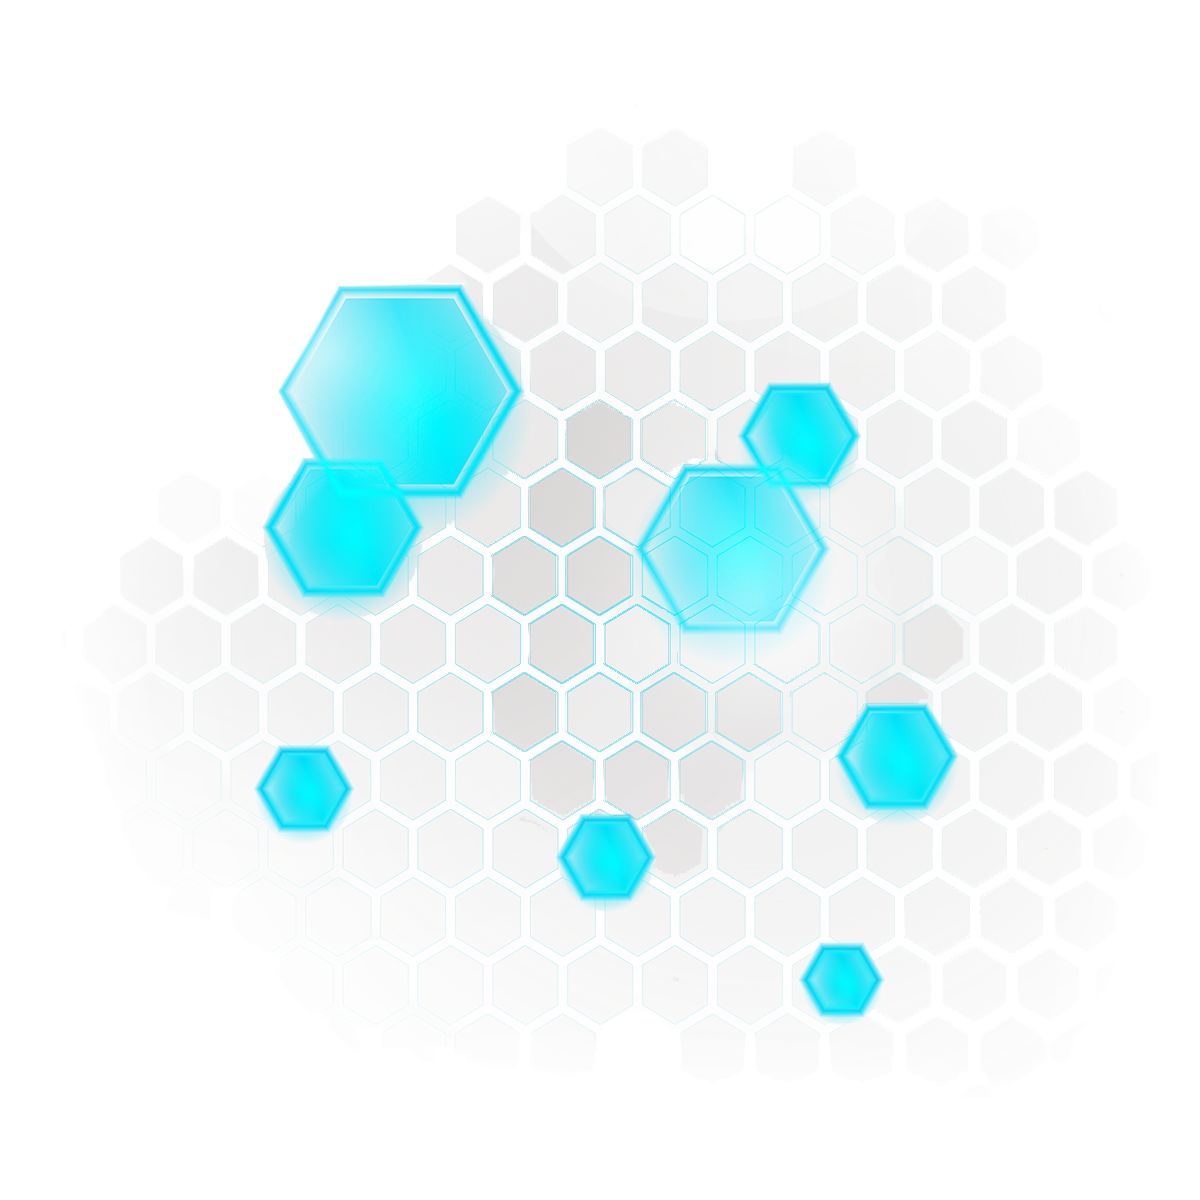
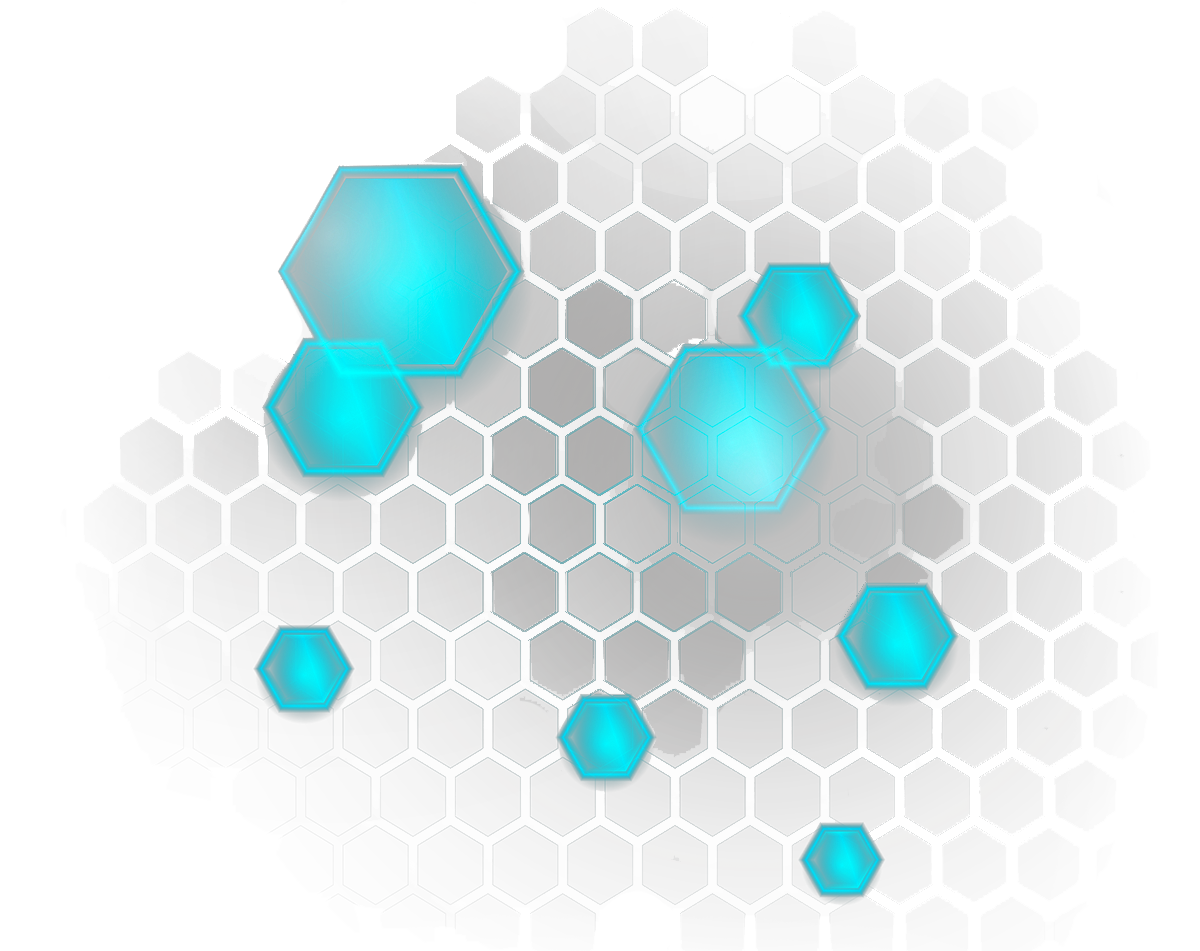
chnge views

Changed region(s): [[0.1542, 0.0915, 0.8942, 0.9758], [0.8633, 0.4269, 0.8942, 0.4574]]

diff --git a/home.css b/home.css
@@ -82,12 +82,15 @@
   
   .page1{
     min-height: 100vh;
-    background-color: rgb(6, 12, 24);
+    background-image: linear-gradient(#261d5c, #080318);
   }
-  .heading {
+  .page1 .heading {
+    align-items: center;
+    margin: 10% 0% 0% 15%;
     text-align: left;
-    margin: 15% 10%;
-    display: inline-block;
+    display: inline-flex;
+    justify-content: space-between;
+    max-width: max-content;
   }
   
   .text-title {
@@ -109,25 +112,22 @@
     background-clip: text;
     -webkit-background-clip: text;
     -webkit-text-fill-color: transparent;
-    text-align: center;
     font-size: 55px;
     font-weight: 600;
     font-family: 'Segoe UI', Tahoma, Geneva, Verdana, sans-serif;
   }
   
   .animateGIF {
-    width: 450px;
-    position: absolute;
-    top: 25%;
-    left: 60%
+    width: 500px;
   }
   .glowanime {
     -webkit-filter: drop-shadow(12px 12px 7px rgba(50, 163, 255, 0.5));
     filter: drop-shadow(12px 12px 7px rgba(5, 184, 255, 0.5));
   }
-  
+ 
+
   .pltfrmbtn {  
-    margin:-5% 15%;
+    margin:0% 15%;
     padding-left: 16px;
     padding-right: 16px; 
     border: none;
@@ -178,7 +178,7 @@
   }
   
   .container1 {
-    background-color: rgb(41, 35, 97);
+    background-image: linear-gradient(#2c4e8d, #0e0920);
     min-height: 100vh;
     width: 100%;
   }
@@ -195,14 +195,14 @@
   }
   
   .container2 {
-    background-color: rgb(51, 46, 122);
+    background-image: linear-gradient(#2c4e8d, #0e0920);
     min-height: 90vh;
     width: 100%;
   }
   
    .contactus{
     align-items: center;
-    padding: 10vh;
+    padding: 7vh;
   }
   
   .contactus .heading2{
@@ -213,7 +213,7 @@
 
   .footer{
     text-align: center;
-    background-color: #000;
+    background-color: rgb(14, 13, 41);
     width: 100%;
     min-height: 7vh;
     padding-top: 3vh;
@@ -355,8 +355,8 @@
     }
   
     .heading {
-      margin: auto;
-      margin-top: 30%;
+   
+      padding-top: 30%;
       display: inline-flexbox;
       width: 100%;
       text-align: center;
@@ -376,8 +376,8 @@
     }
   
     .pltfrmbtn {
-      margin:auto;
-      margin-top: 30%;
+      margin-top: 20%;
+
     }
    
     .aboutus .heading1{
@@ -385,11 +385,8 @@
       padding-top: 18%;
     }
   
-    .contactus{
+    .contactus .heading2{
       padding-top: 18%;
-    }
-    
-    .heading2{
       font-size: 30px; 
     }
   

diff --git a/register.html b/register.html
@@ -10,32 +10,35 @@
 <body>
   <div class="container">
     <div class="title">Sign Up!</div>
+    <div class="liner">
+      Please fill in this form to create an account.
+    </div>
     <div class="content">
-      <form action="#">
+      <form action="/action_page.php">
         <div class="user-details">
           <div class="input-box">
-            <span class="details">Full Name</span>
-            <input type="text" placeholder="Enter your name" required>
+            <span class="details">First Name</span>
+            <input type="text" placeholder="Enter your firstname" required>
           </div>
           <div class="input-box">
-            <span class="details">Username</span>
-            <input type="text" placeholder="Enter your username" required>
+            <span class="details">Last Name</span>
+            <input type="text" placeholder="Enter your lastname" required>
           </div>
           <div class="input-box">
             <span class="details">Email</span>
-            <input type="text" placeholder="Enter your email" required>
+            <input type="email" placeholder="Enter your email" required>
           </div>
           <div class="input-box">
-            <span class="details">Phone Number</span>
-            <input type="text" placeholder="Enter your number" required>
+            <span class="details">Mobile Number</span>
+            <input type="tel" pattern="[1-9]{1}[0-9]{9}" placeholder="Enter your mobile number" required>
           </div>
           <div class="input-box">
             <span class="details">Password</span>
-            <input type="text" placeholder="Enter your password" required>
+            <input type="password" placeholder="Enter your password" required>
           </div>
           <div class="input-box">
             <span class="details">Confirm Password</span>
-            <input type="text" placeholder="Confirm your password" required>
+            <input type="password" placeholder="Confirm your password" required>
           </div>
         </div>
         <div class="gender-details">

diff --git a/home.html b/home.html
@@ -16,7 +16,6 @@
 
 
   <!--First page-->
-  <div class="page1">
     
   <nav>
     <div class="logo">
@@ -36,19 +35,24 @@
       <div class="line3"></div>
     </div>
   </nav>
-  <div class="heading">
-      <div class="text-title">Vehicle Registration<div class="text-subtitle">made easy Via</div>
+
+  <div class="page1">
+    <div class="heading">
+      <div class="text-title">
+        Vehicle Registration
+        <div class="text-subtitle">
+          made easy Via
+        </div>
         <span class="text-main">{Blockchain}</span>.
       </div>
-  </div>
-  <div>
       <img src="images/blkchn2.png" class="animateGIF glowanime">
-  </div>
-  
+    </div>
     <button type="submit" id="mainBtn" class="pltfrmbtn"><img class="icon" src="images/bicycle.svg" />
       <pre style="font-family: 'Segoe UI', Tahoma, Geneva, Verdana, sans-serif;">  Go to the Platform</pre>
     </button>
   </div>
+
+
 
 
   <!--Second page-->

diff --git a/register.css b/register.css
@@ -35,6 +35,12 @@ body{
   border-radius: 5px;
   background: linear-gradient(135deg, #71b7e6, #9b59b6);
 }
+
+.liner{
+  font-size: 90%;
+
+}
+
 .content form .user-details{
   display: flex;
   flex-wrap: wrap;
